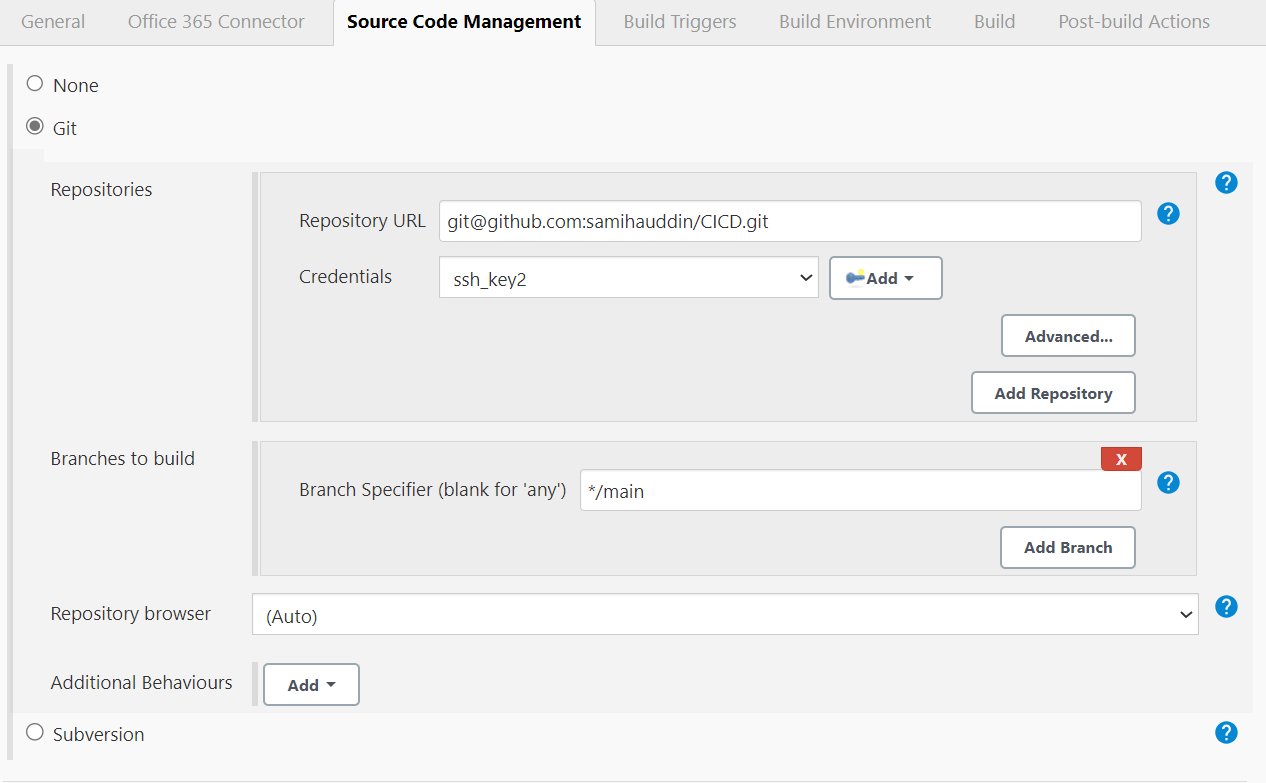
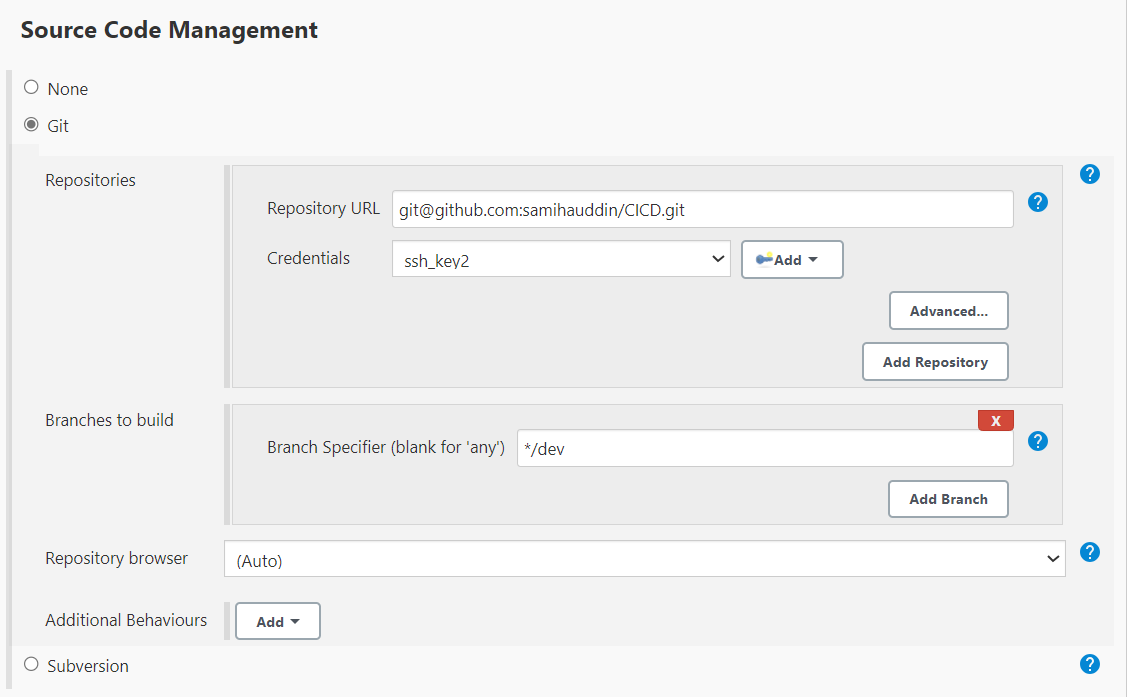
changes

diff --git a/jenkins_notes.md b/jenkins_notes.md
@@ -1,0 +1,143 @@
+## Jenkins and CI/CD
+
+### Creating a Job for CI 
+
+**Step 1:** log into Jenkins and click 'New Item'
+- Enter a name 
+- click 'Freestyle project', then okay 
+
+**Step 2:** General 
+- Enter a description
+- `Discard old builds: 3`
+
+![alt text](s3.png)
+
+**Step 3:** Check `GitHub project`
+- Enter your repo HTTPS URL
+
+![alt text](s4.png)
+
+**Step 4:** Office 365 Connector 
+
+- Check `Restrict where this project can be run`
+- Label Expression: `sparta-ubuntu-node`
+
+![alt text](s5.png)
+
+**Step 5:** Source Code Management
+- Check `Git`
+- Enter your SSH URL for your repository
+- Credentials: select your private key 
+
+**Step 6:** Source Code Management
+- Branch Specifier: `*/dev`
+
+![alt text](s6.png)
+
+**Step 7:** Build Triggers
+- Check: `GitHub hook trigger for GITScm polling`
+
+![alt text](s7.png)
+
+**Step 8:** Build Environment 
+- Check `Provide Node & npm bin/folder to PATH`
+
+![alt text](s8.png)
+
+**Step 9:** Build
+- Enter the following commands 
+
+```
+cd app
+npm install
+npm test
+```
+
+![alt text](commands.png)
+
+**Step 10:** Post-build Actions
+
+![alt text](pba1.png)
+
+### Creating a job for a merge 
+
+**Step 1:** Create a new job `New Item`
+- Add `Description`
+- `Check Discard old buils: 3`
+- Check `GitHub project`
+- Enter your repo HTTPS URL
+- Check `Restrict where this project can be run`
+- Enter: `sparta-ubuntu-node`
+- Check `Git`
+- Add your repo SSH URL, select your private key
+- Branches to build `*/dev`
+
+**Step 2:** Select `Add Additional Behaviours`
+- Then select: `Merge before build`
+- Enter Name of repository: `origin`
+- Branch to merge to `main`
+
+![alt text](merge.png)
+
+**Step 3:** Build Triggers
+- Leave all unchecked
+
+**Step 4:** Build Environment
+- Check `SSH Agent`
+
+![alt text](ssh.png)
+
+**Step 5:** Post-build Actions
+- Select `Git Publisher`
+- Check `Merge Results`
+- Then press Save
+
+![alt text](save.png)
+
+**Step 6:** Navigate to GitBash terminal 
+- Change main to Dev
+
+```
+git branch dev
+```
+
+**Step 7:** Make a change in your local repository
+- Commit changes
+- Push to GitHub
+- Whilst pushing Jenkins will be triggered and allow dev to merge to main
+
+### Creating Jenkins CI/CD
+
+**Step 1:** Creating a new job `New Item`
+- Log into Jenkins 
+- Select `New Item`
+- Create a name `Samiha-cd`
+- Configure Office 365 Connector, Source Code Management, Build Triggers, Build Environment
+
+**Step 2:** Triggering the New Job from Your Merge Job
+- Navigate to the your 2nd job created
+- Select a `post-build action`
+- Select: `Build other projects`
+- Projects to build: `Samiha-cd`
+
+**Step 3:** Allowing Jenkins to SSH into EC2 Instance
+
+- Set up SSH access for Jenkins to your EC2 instance. 
+
+**Step 4:** Add the -y Command for SSH Access
+
+- Add the -y commands so you don’t need to manually allow the SSH into your instance.
+
+**Step 5:** Copying the App Code
+
+**Step 6:** cd into the app folder
+
+**Step 7:** Run npm install
+
+**Step 8:** Install Node.js
+
+**Step 9:** Verify the Code via SSH
+
+**Step 10:** Modify the Application Name
+
+
